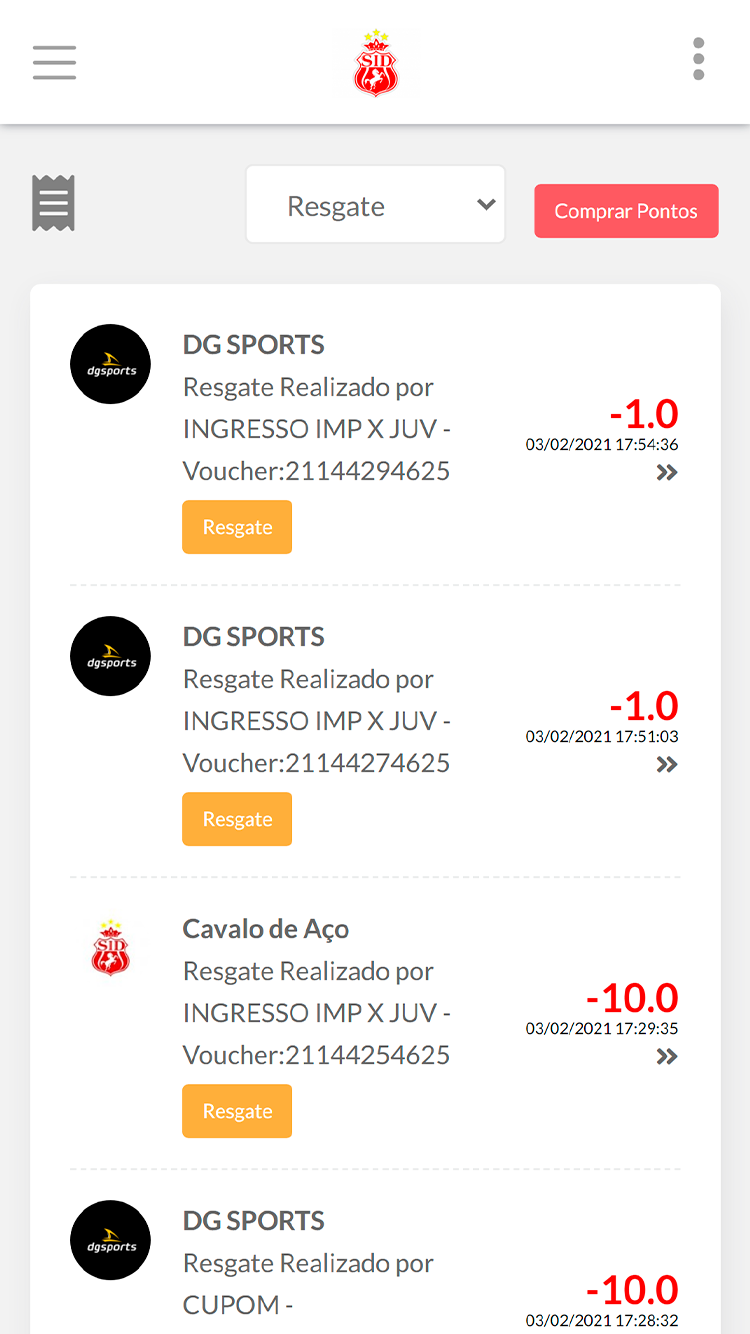
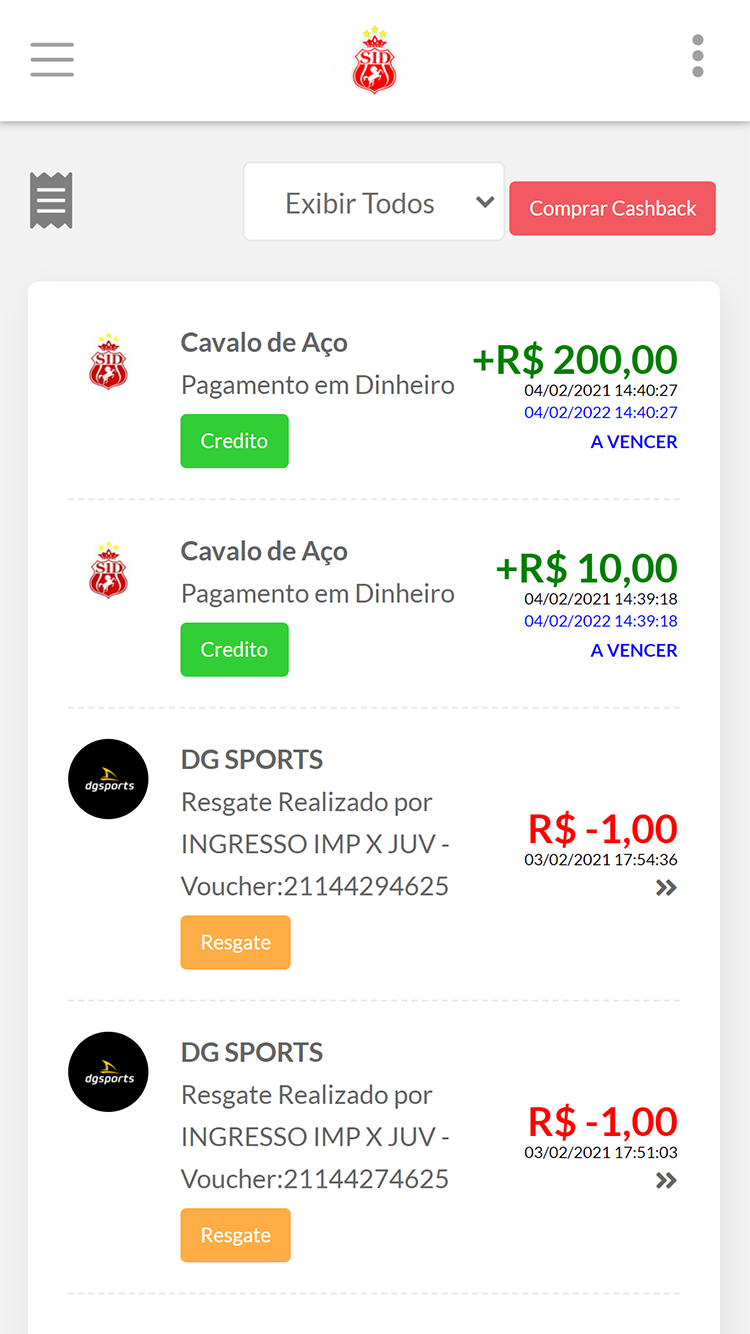
correção de imagens e textos e botão fale conosco

diff --git a/index.html b/index.html
@@ -122,8 +122,8 @@
 						<li class="highlight lhgh" data-index="2">
 							<i class="fi-rr-menu-dots effect-1"></i>							
 							<div class="fl-inner">
-								<h4>Crédio de Pontos</h4>
-								<p>Seu torcedor acumula crédito a cada compra feita na rede.</p>
+								<h4>Repasse de crédito</h4>
+								<p>Seu torcedor recebe crédito a cada compra feita na rede.</p>
 							</div>
 						</li><!-- .highlight .left-row -->
 						
@@ -174,8 +174,8 @@
 						<li class="highlight rhgh" data-index="4">
 							<i class="fi-rr-money effect-1"></i>							 
 							<div class="fr-inner">
-								<h4>Compra de Pontos</h4>
-								<p>Compre pontos via cartão ou boleto quando quiser.</p>
+								<h4>Recarga de Créditos</h4>
+								<p>Recarregue via cartão ou boleto quando quiser.</p>
 							</div>
 						</li><!-- .highlight .left-row -->
 						<li class="highlight rhgh" data-index="5">

diff --git a/style.css b/style.css
@@ -2062,7 +2062,8 @@ body.app_version .bootstrap-select .btn-light:hover{
     font-size: 18px;
     border: 1px solid #ffffff !important;
     color: #ffffff;
-    background-color: #222222;
+    background: rgb(90,210,102);
+    background: linear-gradient(180deg, rgba(90,210,102,1) 0%, rgba(38,180,61,1) 0%);
 }
 
 .btn-dark {
